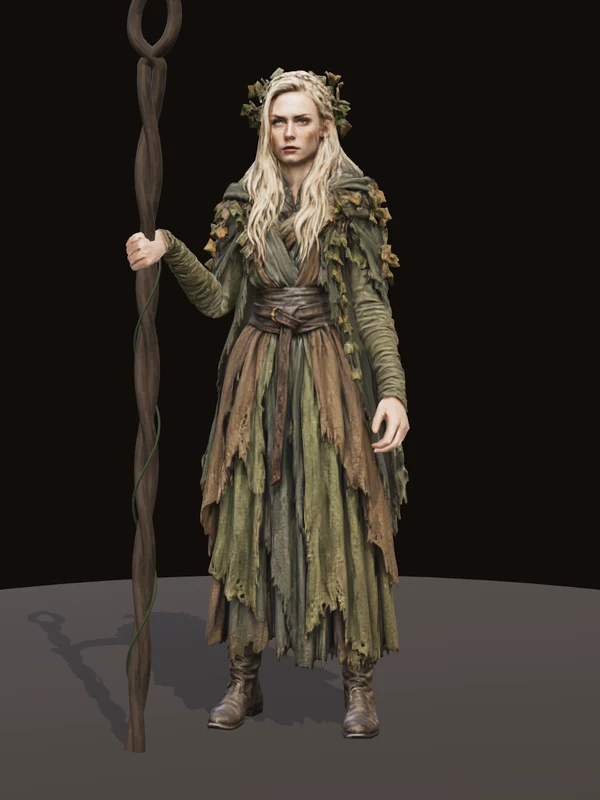
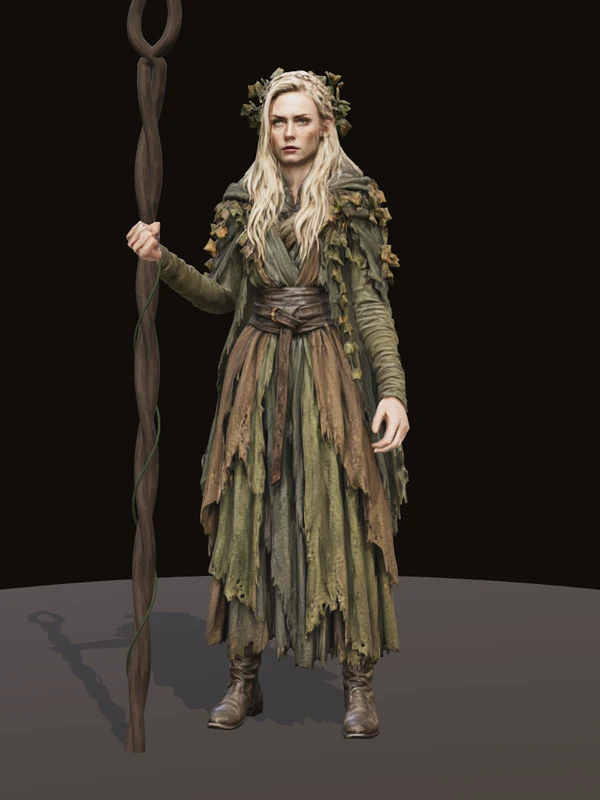
Asset library: her hand holds the staff, thumb uppermost
The fist was palm down with the staff pushed through it. A generated fist is turned as the open hand beside it, palm to the thigh: with that, the thumb comes on top. The hand's skin is then moved off the staff's line so fingers and thumb lie round it.

Found by hiding the staff and looking at the bare hand from above, which should have been the first step.

Changed region(s): [[0.21, 0.2812, 0.39, 0.4062]]

diff --git a/asset-library/props.ts b/asset-library/props.ts
@@ -9,7 +9,7 @@
 // it on the skeleton, as it leaves how far the arms hang.
 
 import * as THREE from "three"
-import { relaxHands } from "./clips"
+import { type Palm, relaxHands } from "./clips"
 
 const Y = new THREE.Vector3(0, 1, 0)
 const RADIUS = 0.019
@@ -89,6 +89,45 @@ function staff(length: number, held = -1) {
   return group
 }
 
+// A closed hand is made a hand that holds: its skin is moved off the line the staff takes through it, out to the
+// staff's own width, so the fingers and the thumb lie round the staff and nothing of the staff shows through them. A
+// fist with a pole pushed through it reads as a fist (the owner, 2026-11-15: "it needs to be holding the staff").
+// Done once, in the mesh as it was modelled.
+function wrap(root: THREE.Object3D, side: "L" | "R", palm: Palm, [along, out]: [number, number]) {
+  if (root.userData.wrapped) return
+  root.userData.wrapped = true
+  const WIDE = RADIUS * 1.4
+  const axis = palm.along.clone().cross(palm.normal).normalize()
+  root.traverse((o) => {
+    if (!(o instanceof THREE.SkinnedMesh)) return
+    const { position: pos, skinIndex: si, skinWeight: sw } = o.geometry.attributes
+    const bone = o.skeleton.bones.findIndex((b) => b.name === `hand${side}`)
+    if (!pos || !si || !sw || bone < 0) return
+    const wrist = new THREE.Vector3().setFromMatrixPosition(o.skeleton.boneInverses[bone].clone().invert())
+    const through = wrist.clone().addScaledVector(palm.along, along).addScaledVector(palm.normal, out)
+    const p = new THREE.Vector3()
+    const off = new THREE.Vector3()
+    for (let v = 0; v < pos.count; v++) {
+      let w = 0
+      for (let k = 0; k < 4; k++) if (si.getComponent(v, k) === bone) w += sw.getComponent(v, k)
+      if (w < 0.3) continue
+      p.fromBufferAttribute(pos, v).applyMatrix4(o.bindMatrix)
+      off.copy(p).sub(through)
+      const up = off.dot(axis)
+      off.addScaledVector(axis, -up)
+      const from = off.length()
+      if (from >= WIDE || from < 1e-5) continue
+      p.copy(through)
+        .addScaledVector(axis, up)
+        .addScaledVector(off, WIDE / from)
+        .applyMatrix4(o.bindMatrixInverse)
+      pos.setXYZ(v, p.x, p.y, p.z)
+    }
+    // The normals are left as they were: made again, they would crease the whole body along its texture's seams.
+    pos.needsUpdate = true
+  })
+}
+
 // What the skeleton says the figure holds: "staff:R:2.1".
 export function heldBy(root: THREE.Object3D) {
   let text = ""
@@ -127,6 +166,12 @@ export function holdProps(root: THREE.Object3D, ground = 0) {
   })
   root.add(prop)
   const [alongUpper, alongFore] = [fore.position.clone().normalize(), hand.position.clone().normalize()]
+  // Where in the hand it is held, along the hand from the wrist and out of the palm. An open hand takes it against
+  // the palm, under the knuckles. A closed one has it inside the curl of its fingers: well along the hand and a little
+  // to the palm's side. The middle of a closed hand is nearer the wrist than that, and a staff set there stands
+  // against the heel of the hand with the fingers closed on nothing.
+  const seat: [number, number] = palm.fist ? [palm.length * 0.6, Math.max(palm.middle[1], 0) + 0.012] : [palm.length * 0.47, RADIUS * 1.9]
+  if (palm.fist) wrap(root, held.hand, palm, seat)
   const pole = new THREE.Vector3(side * 0.12, -1, -0.3).normalize()
   let foot: THREE.Vector3 | null = null
   // The way the staff stands, foot to hand: the fist is turned to it, and it is found again from the fist.
@@ -186,10 +231,7 @@ export function holdProps(root: THREE.Object3D, ground = 0) {
     }
     fore.updateWorldMatrix(false, true)
     const handTurn = upperTurn.clone().multiply(fore.quaternion).multiply(hand.quaternion)
-    // An open hand takes it against the palm, under the knuckles. A fist has it inside the curl of its fingers:
-    // well along the hand and a little to the palm's side. The middle of the fist is nearer the wrist than that, and
-    // a staff set there stands against the heel of the hand with the fingers closed on nothing.
-    const [alongHand, outOfPalm] = palm.fist ? [palm.length * 0.6, Math.max(palm.middle[1], 0) + 0.012] : [palm.length * 0.47, RADIUS * 1.9]
+    const [alongHand, outOfPalm] = seat
     const grip = local(hand).addScaledVector(palm.along.clone().applyQuaternion(handTurn), alongHand).addScaledVector(palm.normal.clone().applyQuaternion(handTurn), outOfPalm)
     // Planted where it first stood, a hand's width farther from the feet than the hand is: it leans in a little.
     foot ??= new THREE.Vector3(grip.x + side * 0.03, ground, grip.z + 0.05)

diff --git a/asset-library/clips.ts b/asset-library/clips.ts
@@ -192,10 +192,12 @@ export function relaxHands(root: THREE.Object3D): Pick<Arms, "wristL" | "wristR"
   // The hand that holds something, "staff:R:2.1" on the skeleton (rig.py), and whether it was modelled as a fist.
   let grips = ""
   let fist = false
+  let facing = ""
   root.traverse((o) => {
     if (typeof o.userData.holds !== "string") return
     grips = o.userData.holds.split(":")[1] ?? ""
     fist = o.userData.holds.split(":")[3] === "fist"
+    facing = o.userData.holds.split(":")[4] ?? ""
   })
   root.traverse((o) => {
     if (!(o instanceof THREE.SkinnedMesh)) return
@@ -223,19 +225,16 @@ export function relaxHands(root: THREE.Object3D): Pick<Arms, "wristL" | "wristR"
       // Along the hand, out of its palm or its back, and across it.
       const h = centre.clone().sub(W).normalize()
       const closed = fist && grips === side
-      // Open or closed, a hand is thinnest from its back to its palm.
-      const n = axes(pts, centre)[2]
+      // An open hand is thinnest from its back to its palm. A fist is a ball, and no measure of its shape says which
+      // side its palm is: guesses from its shape, and from what the sheet seemed to show, were wrong three times. A
+      // generator makes a fist as it makes the open hand beside it, palm turned in toward the thigh and thumb to the
+      // front, whatever the sheet asked. That was settled by hiding the staff and looking at the bare fist from above.
+      // `"palm"` in holds says otherwise, for a model that comes differently: "front" or "back", the way it faces.
+      const thigh = new THREE.Vector3(side === "L" ? -1 : 1, -1, 0)
+      const n = closed ? (facing === "front" ? new THREE.Vector3(0, 0, 1) : facing === "back" ? new THREE.Vector3(0, 0, -1) : thigh.clone()) : axes(pts, centre)[2]
       n.addScaledVector(h, -n.dot(h)).normalize()
-      if (closed) {
-        // A fist's fingers are curled onto its palm, so most of it lies to the palm's side of the line the forearm
-        // makes. Which way a generator turns a fist is its own affair: the sheet's "knuckles forward" was not kept.
-        const arm = W.clone().sub(fore.at).normalize()
-        const beside = centre.clone().sub(W)
-        beside.addScaledVector(arm, -beside.dot(arm))
-        if (beside.dot(n) < 0) n.negate()
-      }
       // The palm is the face turned in and down: the sheet a figure is modelled from holds its palms toward the thighs.
-      else if (n.dot(new THREE.Vector3(side === "L" ? -1 : 1, -1, 0)) < 0) n.negate()
+      if (!closed && n.dot(thigh) < 0) n.negate()
       const across = new THREE.Vector3().crossVectors(h, n)
       const L = Math.max(...pts.map((p) => p.clone().sub(W).dot(h)))
       const along = pts.map((p) => p.clone().sub(W).dot(h) / L)

diff --git a/asset-library/pipeline/build.ts b/asset-library/pipeline/build.ts
@@ -45,7 +45,9 @@ interface Brief {
   arms: number
   party?: boolean
   // What it holds, built in its hand when it is shown (props.ts) and left off the sheet: { what: "staff", hand: "R", length: 2.1 }.
-  holds?: { what: "staff"; hand: "L" | "R"; length: number; fist?: boolean }
+  // `palm` is the way a fist's palm faces on the model, if not in toward the thigh as an open hand's does: "front"
+  // or "back". Hide the staff and look at the bare fist before saying.
+  holds?: { what: "staff"; hand: "L" | "R"; length: number; fist?: boolean; palm?: "front" | "back" }
   // "front" paints the front view alone, upright and at full size: half as many pixels again on a face as the sheet
   // of two views gives. The model is made from the front alone, so the back view was only ever a reference.
   sheet?: "front"

diff --git a/asset-library/pipeline/rig.py b/asset-library/pipeline/rig.py
@@ -355,7 +355,7 @@ rig["hangL"], rig["hangR"] = hang["L"], hang["R"]
 brief_file = os.path.join(out_dir, "character.json")
 holds = (json.load(open(brief_file)) if os.path.exists(brief_file) else {}).get("holds")
 if holds:
-    rig["holds"] = f"{holds['what']}:{holds.get('hand', 'R')}:{holds.get('length', 2)}" + (":fist" if holds.get("fist") else "")
+    rig["holds"] = f"{holds['what']}:{holds.get('hand', 'R')}:{holds.get('length', 2)}" + (":fist" if holds.get("fist") else "") + (f":{holds['palm']}" if holds.get("palm") else "")
 
 bpy.ops.object.vertex_group_limit_total(group_select_mode="ALL", limit=4)
 bpy.ops.object.vertex_group_normalize_all(group_select_mode="ALL", lock_active=False)

diff --git a/asset-library/README.md b/asset-library/README.md
@@ -195,7 +195,8 @@ The owner, 2026-11-15, of Wollandora without her staff: "I was expecting to see 
 - That arm is bent to it each frame, after the clip has moved the figure: the wrist is sent out and forward of the shoulder at chest height, the elbow found under it from the arm's two lengths, and the fist turned at the wrist until the staff runs through it, thumb uppermost.
 - Where the hand goes is most of whether it looks held. Close in front of the shoulder the arm folds like a wing, and the owner called it "completely unnatural". Lower and farther out, with the forearm level, it is an arm stuck out sideways. Right is where her card has it: the hand at the chest, the elbow hanging at her side, the forearm rising to the hand.
 - The hand is modelled closed. `"fist": true` in `holds` has the sheet paint that hand as a fist, knuckles forward, and the staff stands through its middle, drawn in narrow where the fist comes. The first try bent an open hand's mesh shut, and the owner's answer was "her hand on the staff does not look right": from her own side the fingers lay flat like a fan. A hand is one bone, and bending its mesh is not a grip.
-- Which way a generator turns a fist is its own affair. The sheet asked for knuckles forward and the model came otherwise, so the thumb was not on top. `relaxHands` reads the fist itself: it is thinnest from back to palm, and most of it lies to the palm's side of the forearm's line, since the fingers are curled onto the palm.
+- A generator makes a fist as it makes the open hand beside it: palm in toward the thigh, thumb to the front, whatever the sheet asked. Three guesses at the fist's palm, from its shape and from the sheet, were each a quarter or a half turn wrong, and the owner said so each time. What settled it: hide the staff (`figure.getObjectByName("prop:staff").visible = false`) and look at the bare hand from above and from each side, large. Do that first for any held prop. `"palm": "front"` or `"back"` in `holds` is for a model that comes otherwise.
+- A fist with a pole through it reads as a fist. The owner: "you seem to be trying to make it like a fist but it needs to be holding the staff". `wrap` in `props.ts` moves the hand's skin off the line the staff takes through it, out to the staff's width, so the fingers and thumb lie round it and none of the staff shows through.
 - The staff stands inside the curl of the fingers, six tenths of the way along the hand. The middle of the fist is nearer the wrist, and a staff set there stands against the heel of the hand.
 - The roll that brings the thumb up is read off the fist's turn and shared: most on the forearm, some at the wrist. Found by comparing two directions it spun from frame to frame, and all of it on the one forearm bone wrung the sleeve at the elbow.
 - The staff stays planted and turns on its foot as the hand sways, so Idle, Walk and Hit all hold it with nothing written for it.
